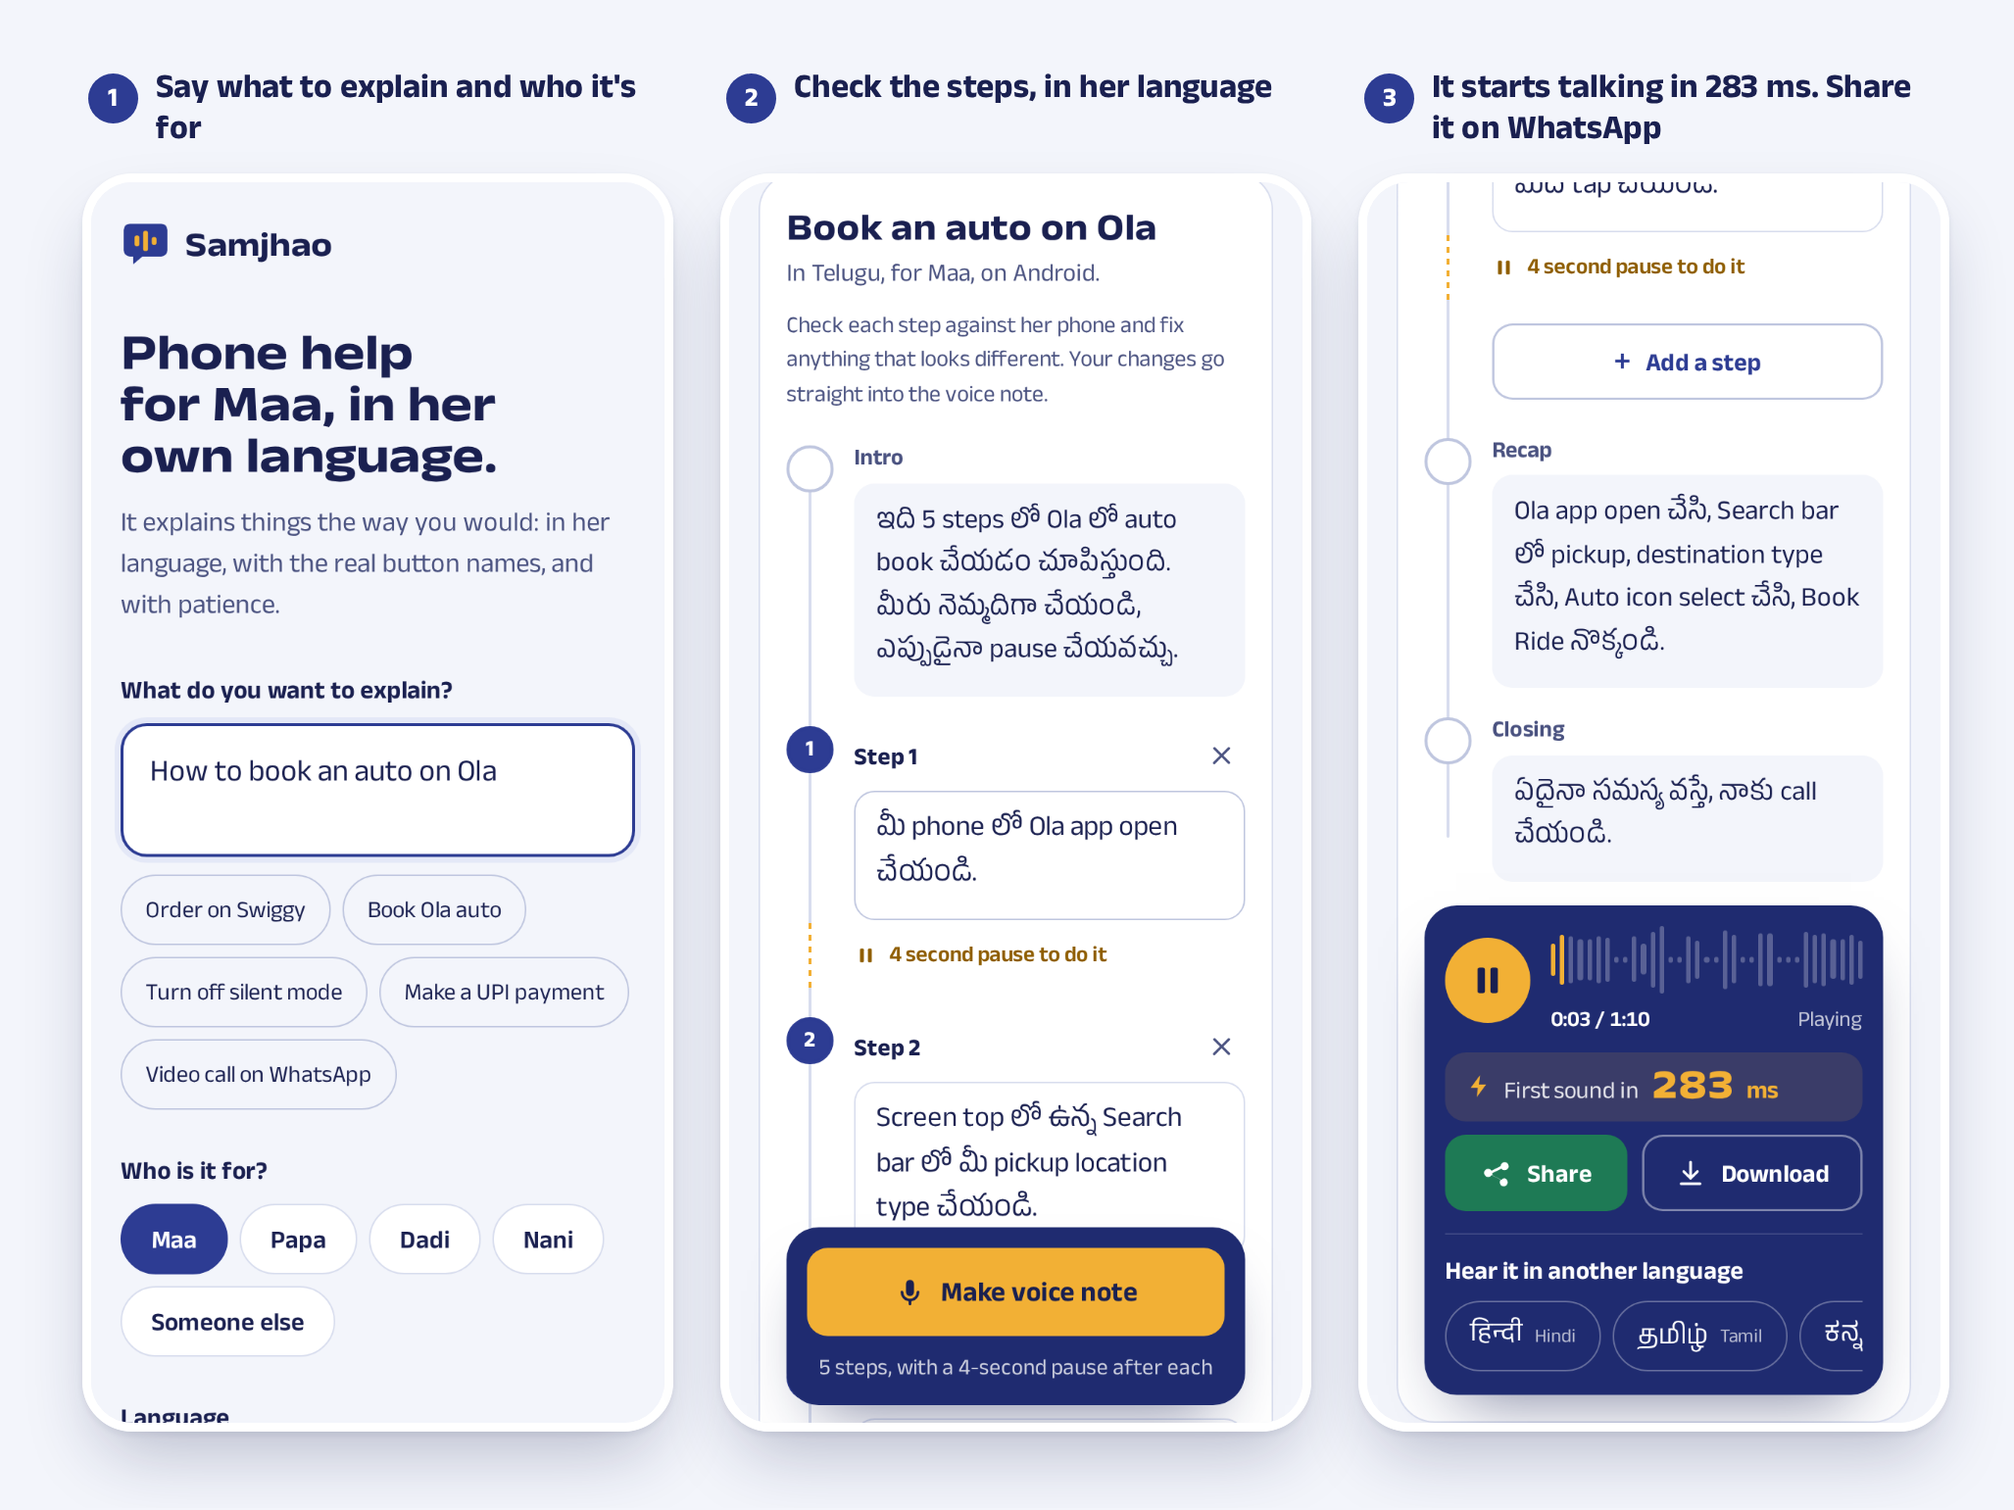
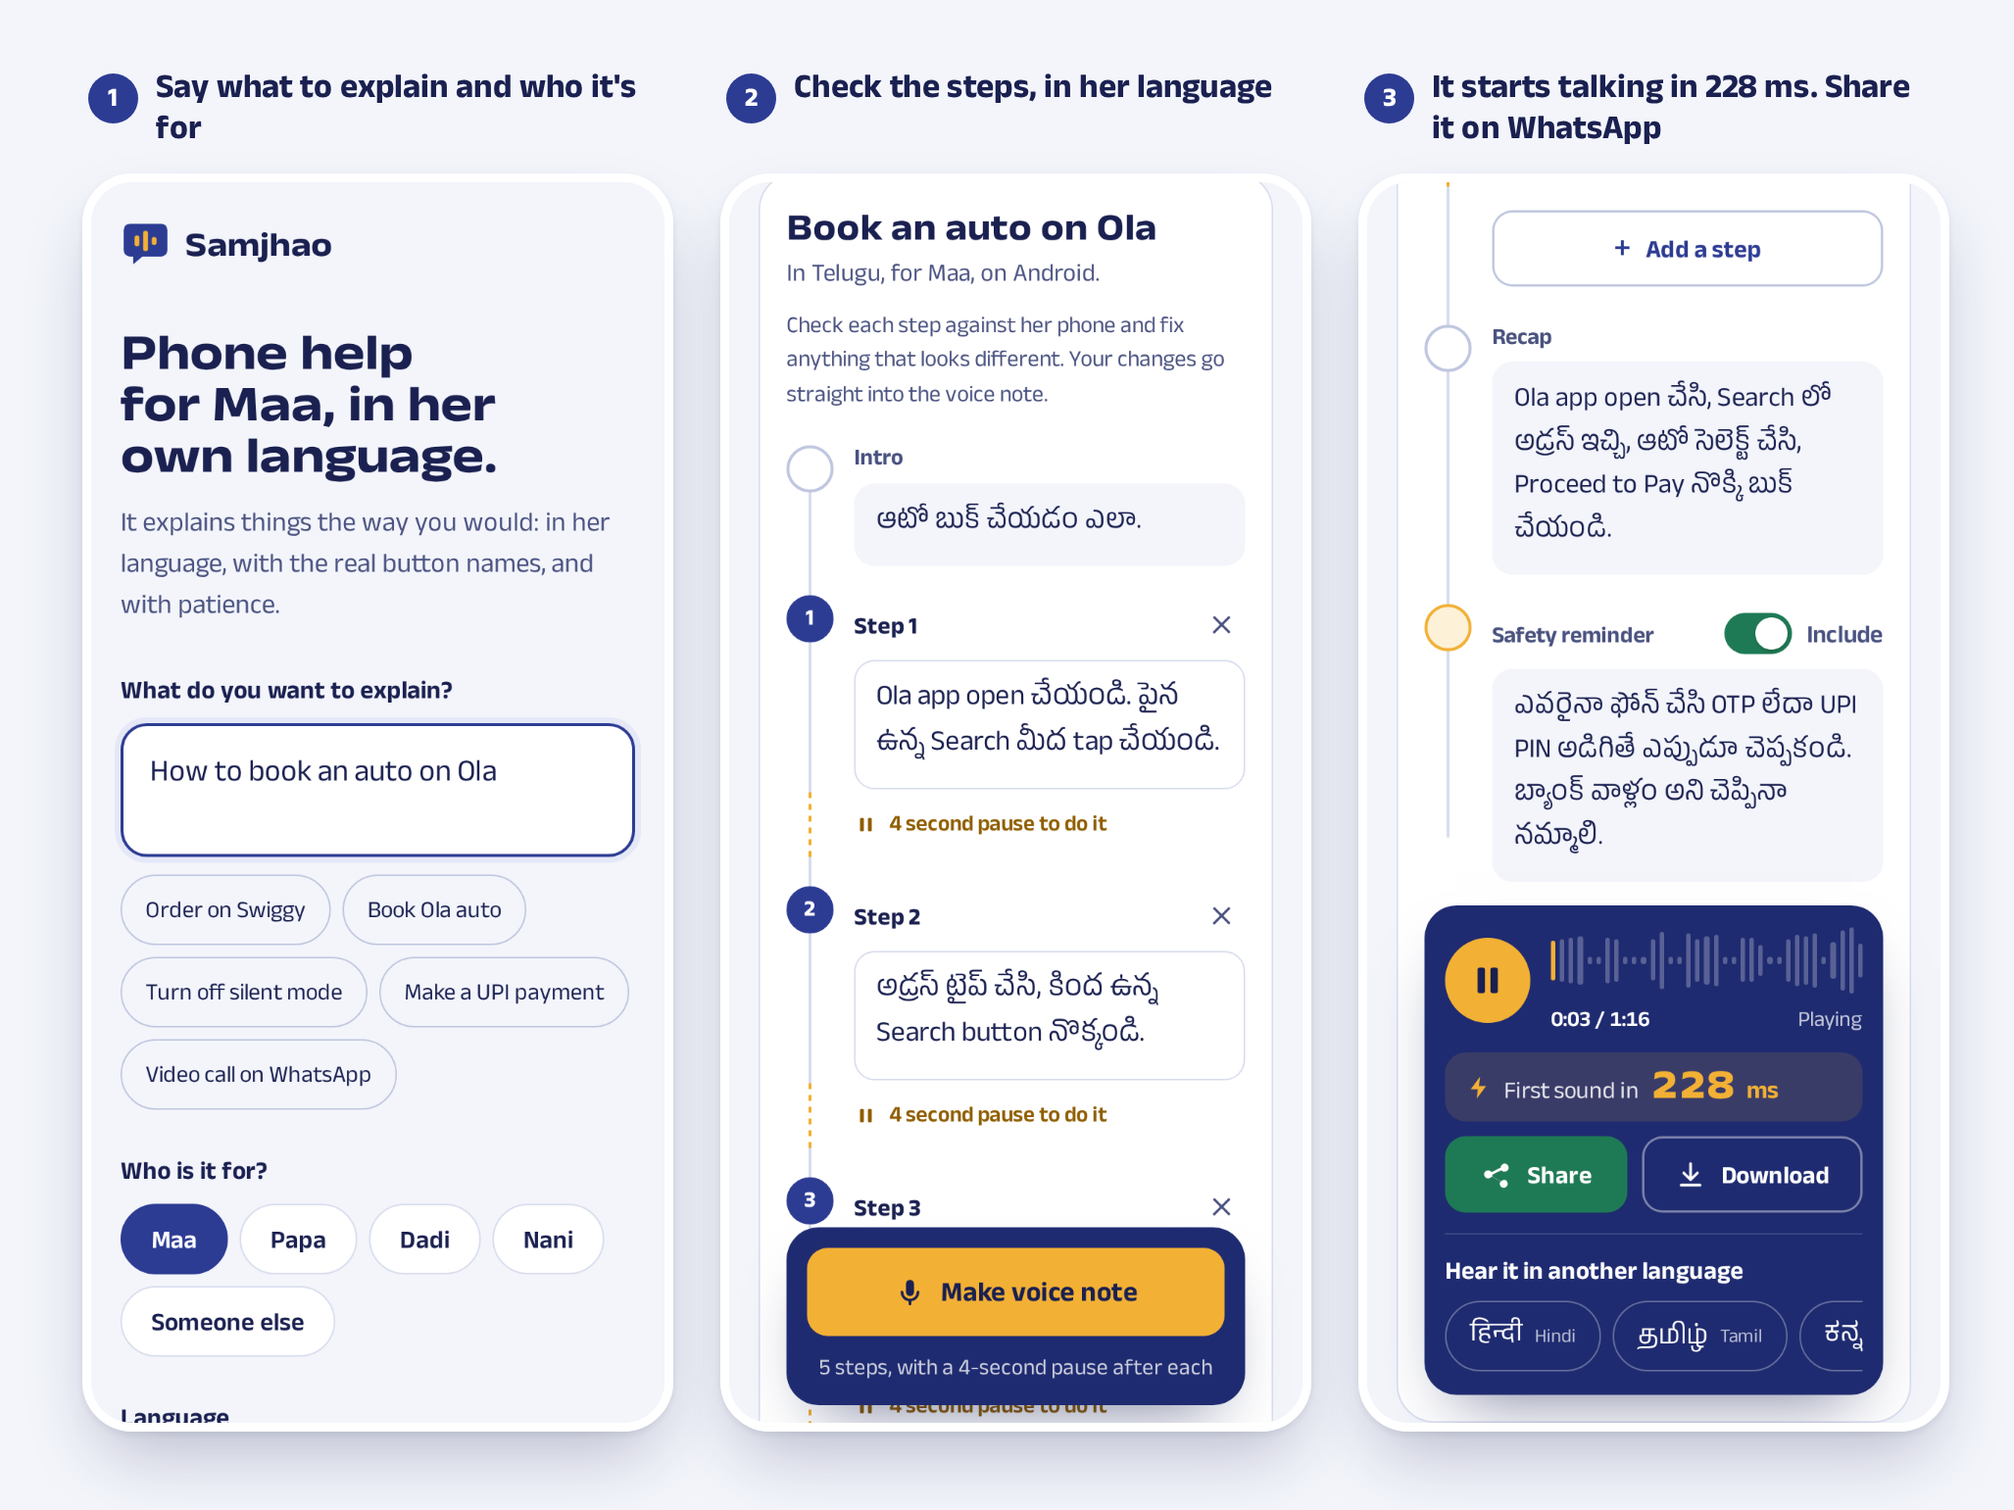
Shorter voice notes: task-only intro, no closing line, fixed safety wording
- The intro is now one line naming the task: no step count, no "take
  your time" or "you can pause" lines; the page no longer rewrites a
  step count in it.
- The closing "if you get stuck, call me" line is gone from the
  schema, prompts, audio and page, and the note ends on the last word.
- The LLM only flags money and login tasks; the scam-safety sentence
  is fixed, checked text per language (Sarvam-105B once wrote the
  Telugu one as "believe them" instead of "don't believe them").

diff --git a/static/app.js b/static/app.js
@@ -18,7 +18,7 @@
     customName: '',
     phone: 'android',
     voice: 'female',
-    script: null, // {title, intro, steps[], recap, safety, close, note}
+    script: null, // {title, intro, steps[], recap, safety, note}
     scriptLang: null, // language the editor text is written in
     scriptFor: null, // {relation, customName, phone} at writing time
     safetyOn: true,
@@ -270,7 +270,6 @@
       steps: steps.slice(0, maxSteps()),
       recap: str(s && s.recap),
       safety: s && typeof s.safety === 'string' && s.safety.trim() ? s.safety : null,
-      close: str(s && s.close),
       note: s && typeof s.note === 'string' && s.note.trim() ? s.note : null,
     };
   }
@@ -295,7 +294,7 @@
     note.hidden = !state.script.note;
     note.textContent = state.script.note || '';
 
-    const fields = { 'f-intro': 'intro', 'f-recap': 'recap', 'f-safety': 'safety', 'f-close': 'close' };
+    const fields = { 'f-intro': 'intro', 'f-recap': 'recap', 'f-safety': 'safety' };
     for (const [id, key] of Object.entries(fields)) {
       const ta = $(id);
       ta.lang = lang;
@@ -352,21 +351,10 @@
     list.querySelectorAll('.part-text').forEach(grow);
   }
 
-  function fixIntroCount(oldN, newN) {
-    const re = new RegExp(`(^|[^0-9])${oldN}(?![0-9])`);
-    const intro = $('f-intro');
-    if (re.test(intro.value)) {
-      intro.value = intro.value.replace(re, `$1${newN}`);
-      state.script.intro = intro.value;
-      grow(intro);
-    }
-  }
-
   function removeStep(i) {
     const n = state.script.steps.length;
     if (n <= 1) return;
     state.script.steps.splice(i, 1);
-    fixIntroCount(n, n - 1);
     renderSteps();
     markDirty();
     updateMakeSub();
@@ -378,7 +366,6 @@
     const n = state.script.steps.length;
     if (n >= maxSteps()) return;
     state.script.steps.push('');
-    fixIntroCount(n, n + 1);
     renderSteps();
     markDirty();
     updateMakeSub();
@@ -419,17 +406,12 @@
   function collectScript() {
     const s = state.script;
     const steps = s.steps.map((t) => t.trim()).filter(Boolean);
-    let intro = s.intro.trim();
-    if (steps.length !== s.steps.length) {
-      intro = intro.replace(new RegExp(`(^|[^0-9])${s.steps.length}(?![0-9])`), `$1${steps.length}`);
-    }
     return {
       title: s.title || '',
-      intro,
+      intro: s.intro.trim(),
       steps,
       recap: s.recap.trim(),
       safety: state.safetyOn && s.safety && s.safety.trim() ? s.safety.trim() : null,
-      close: s.close.trim(),
       note: s.note || null,
     };
   }
@@ -482,8 +464,6 @@
     script.steps.forEach((s) => { speak(s); segs.push({ talk: false, len: pauseSeconds() }); });
     speak(script.recap);
     if (script.safety) { segs.push({ talk: false, len: 1 }); speak(script.safety); }
-    segs.push({ talk: false, len: 0.8 });
-    speak(script.close);
     const total = segs.reduce((a, s) => a + s.len, 0);
     const n = Math.max(24, Math.min(64, Math.floor((wave.clientWidth || 260) / 6)));
     job.bars = [];
@@ -889,7 +869,7 @@
       updateAddress();
     });
 
-    const fields = { 'f-intro': 'intro', 'f-recap': 'recap', 'f-safety': 'safety', 'f-close': 'close' };
+    const fields = { 'f-intro': 'intro', 'f-recap': 'recap', 'f-safety': 'safety' };
     for (const [id, key] of Object.entries(fields)) {
       $(id).addEventListener('input', (e) => {
         state.script[key] = e.target.value;

diff --git a/static/index.html b/static/index.html
@@ -145,12 +145,6 @@
             </div>
             <textarea id="f-safety" class="part-text" rows="1"></textarea>
           </div>
-
-          <div class="part part-soft" data-part="close">
-            <span class="node" aria-hidden="true"></span>
-            <label class="part-label" for="f-close">Closing</label>
-            <textarea id="f-close" class="part-text" rows="1"></textarea>
-          </div>
         </div>
 
         <div class="dock" id="dock">

diff --git a/app/llm.py b/app/llm.py
@@ -36,10 +36,9 @@ SCRIPT_SCHEMA = {
         "steps": {"type": "array", "items": {"type": "string"}},
         "recap": {"type": "string"},
         "safety": {"type": ["string", "null"]},
-        "close": {"type": "string"},
         "note": {"type": ["string", "null"]},
     },
-    "required": ["title", "intro", "steps", "recap", "safety", "close", "note"],
+    "required": ["title", "intro", "steps", "recap", "safety", "note"],
     "additionalProperties": False,
 }
 
@@ -131,11 +130,10 @@ CONTENT
 
 PARTS (JSON fields)
 - title: 2 to 5 English words in Latin script naming the task, like "Order food on Swiggy".
-- intro: in one short sentence say what this voice note shows, say how many steps there are (as a digit, matching the steps list), then tell them to take their time and that they can pause this voice note anytime.
+- intro: one short sentence that only names the task, like a title said aloud ("How to put a story on Facebook", in the target language). Nothing else: no step count, no "take your time", no "you can pause".
 - steps: the steps, in order.
 - recap: one breath that runs through all the steps quickly.
-- safety: only if the task itself involves paying money, UPI, banking, OTPs, passwords or logging in. Then one or two sentences that say all of this: never tell your OTP or UPI PIN to anyone who calls you, even if they say they are from the bank. For everything else (calls, video calls, messages, photos, settings, sound) it must be null.
-- close: one short line: if you get stuck, just call me.
+- safety: the word "yes" only if the task itself involves paying money, UPI, banking, OTPs, passwords or logging in (a standard warning is added for you). For everything else (calls, video calls, messages, photos, settings, sound) it must be null.
 - note: null unless the task needs more than 6 steps.
 
 Reply with one JSON object only."""
@@ -152,12 +150,12 @@ FAITHFULNESS
 - The user may have edited the source script. Keep every step, in the same order, with the same meaning and details. Same number of steps; never add, drop, merge or split steps.
 - Keep app names and button labels exactly as they are in the source.
 - If the source calls the listener by name or relation (Maa, Papa, Amma garu and so on), leave that out.
-- The intro must say the number of steps as the digit {steps}, and tell them to take their time and that they can pause this voice note anytime.
-- safety: translate it if the source has one, keep it null if the source's is null.
+- intro: one short sentence that only names the task, like a title said aloud. Nothing else: no step count, no "take your time", no "you can pause".
+- safety: "yes" if the source has one, null if the source's is null (a standard warning is added for you).
 - title and note: copy them unchanged.
 - Never put "Step 1", numbers or bullets before a step.
 
-Reply with one JSON object with the same fields as the source: title, intro, steps, recap, safety, close, note."""
+Reply with one JSON object with the same fields as the source: title, intro, steps, recap, safety, note."""
 
 
 # --- model call --------------------------------------------------------------------------------
@@ -261,21 +259,11 @@ def _strip_address(text: str, words: list[str]) -> str:
 
 def _without_address(script: dict, language: str, custom_name: str | None) -> dict:
     words = _address_words(language, custom_name)
-    for key in ("intro", "recap", "safety", "close"):
+    for key in ("intro", "recap", "safety"):
         if script.get(key):
             script[key] = _strip_address(script[key], words)
     script["steps"] = [s for s in (_strip_address(s, words) for s in script["steps"]) if s]
-    script["intro"] = _fix_step_count(script["intro"], len(script["steps"]))
     return script
-
-
-def _fix_step_count(intro: str, steps: int) -> str:
-    """The LLM sometimes miscounts its own steps; correct the one number in the intro."""
-    numbers = list(re.finditer(r"(?<![\d₹])\d{1,2}(?!\d)", intro))
-    if len(numbers) == 1 and numbers[0].group() != str(steps):
-        m = numbers[0]
-        return intro[:m.start()] + str(steps) + intro[m.end():]
-    return intro
 
 
 def _title_from_task(task: str) -> str:
@@ -324,14 +312,11 @@ def _parse(raw: str, language: str) -> dict:
         "steps": steps[: config.MAX_STEPS],
         "recap": text_field("recap"),
         "safety": text_field("safety", optional=True),
-        "close": text_field("close"),
         "note": text_field("note", optional=True),
     }
-    script["intro"] = _fix_step_count(script["intro"], len(script["steps"]))
-
     writing = config.LANGUAGES[language]["script"]
     if writing != "Latin":
-        spoken = " ".join([script["intro"], *script["steps"], script["recap"], script["close"]])
+        spoken = " ".join([script["intro"], *script["steps"], script["recap"]])
         if _script_share(spoken, writing) < 0.25:
             raise ValueError(f"reply is not written in {writing} script")
     return script
@@ -363,16 +348,18 @@ async def write_script(task: str, language: str, relation: str, custom_name: str
     script = await _generate(WRITE_MODEL, system, user, language, WRITE_TEMPERATURE)
     if not script["title"].isascii():
         script["title"] = _title_from_task(task)
+    script["safety"] = config.SAFETY_LINE[language] if script["safety"] else None
     return _without_address(script, language, custom_name)
 
 
 async def translate_script(script: dict, language: str, relation: str, custom_name: str | None, phone: str, voice: str) -> dict:
     """Rewrite an existing (possibly user-edited) script in `language`, keeping its steps."""
-    source = {k: script.get(k) for k in ("title", "intro", "steps", "recap", "safety", "close", "note")}
+    source = {k: script.get(k) for k in ("title", "intro", "steps", "recap", "safety", "note")}
     system = _translate_system(language, relation, custom_name, phone, voice, len(source["steps"] or []))
     user = "Source script:\n" + json.dumps(source, ensure_ascii=False, indent=2)
     result = await _generate(TRANSLATE_MODEL, system, user, language, TRANSLATE_TEMPERATURE,
                              steps_expected=len(source["steps"] or []))
     result["title"] = source["title"] or result["title"]
     result["note"] = source["note"]
+    result["safety"] = config.SAFETY_LINE[language] if source["safety"] else None
     return _without_address(result, language, custom_name)

diff --git a/app/config.py b/app/config.py
@@ -61,6 +61,20 @@ LANGUAGES = {
 
 PHONES = {"android": "Android", "iphone": "iPhone"}
 
+# Scam-safety line for tasks involving money or login. Fixed text, not LLM-written: a dropped negation here
+# ("believe them" instead of "don't believe them") would be dangerous.
+SAFETY_LINE = {
+    "hi-IN": "कोई भी call करके OTP या UPI PIN माँगे, तो कभी मत बताइए, चाहे वो कहे कि bank से बोल रहा है।",
+    "te-IN": "ఎవరైనా call చేసి OTP లేదా UPI PIN అడిగితే, ఎప్పుడూ చెప్పకండి. Bank నుంచి అని చెప్పినా నమ్మకండి.",
+    "ta-IN": "யாராவது call பண்ணி OTP அல்லது UPI PIN கேட்டா, ஒருபோதும் சொல்லாதீங்க. Bank-ல இருந்து பேசறோம்னு சொன்னாலும் நம்பாதீங்க.",
+    "kn-IN": "ಯಾರಾದರೂ call ಮಾಡಿ OTP ಅಥವಾ UPI PIN ಕೇಳಿದರೆ, ಯಾವತ್ತೂ ಹೇಳಬೇಡಿ. Bank ಇಂದ ಮಾತಾಡ್ತಿದ್ದೀವಿ ಅಂದರೂ ನಂಬಬೇಡಿ.",
+    "mr-IN": "कोणी call करून OTP किंवा UPI PIN विचारला, तर कधीच सांगू नका. Bank मधून बोलतोय असं सांगितलं तरी विश्वास ठेवू नका.",
+    "bn-IN": "কেউ call করে OTP বা UPI PIN চাইলে, কখনও বলবেন না। Bank থেকে বলছি বললেও বিশ্বাস করবেন না।",
+    "gu-IN": "કોઈ call કરીને OTP કે UPI PIN માંગે, તો ક્યારેય કહેશો નહીં. Bank માંથી બોલું છું એમ કહે તો પણ વિશ્વાસ કરશો નહીં.",
+    "pa-IN": "ਜੇ ਕੋਈ call ਕਰਕੇ OTP ਜਾਂ UPI PIN ਮੰਗੇ, ਤਾਂ ਕਦੇ ਨਾ ਦੱਸੋ। ਭਾਵੇਂ ਉਹ ਕਹੇ ਕਿ bank ਤੋਂ ਬੋਲ ਰਿਹਾ ਹਾਂ, ਯਕੀਨ ਨਾ ਕਰੋ।",
+    "en-IN": "Never tell your OTP or UPI PIN to anyone who calls you, even if they say they are from the bank.",
+}
+
 # Bulbul v4 Flash speaker IDs per language, picked from the live speaker list.
 # Tamil has no female persona on v4 Flash yet.
 VOICES: dict[str, dict[str, str]] = {

diff --git a/app/audio.py b/app/audio.py
@@ -101,7 +101,9 @@ def build_parts(script: dict, language: str) -> list[Part]:
         parts.append(Part("safety", _sentence(script["safety"], language), config.TTS_PACE, config.PAUSE_AFTER_SAFETY))
     if script.get("close"):
         parts.append(Part("close", _sentence(script["close"], language), config.TTS_PACE, 0))
-    return [p for p in parts if p.text]
+    parts = [p for p in parts if p.text]
+    parts[-1].pause = 0  # end on the last word, not on silence
+    return parts
 
 
 def create_job(job_id: str, script: dict, language: str, voice: str) -> Job:

diff --git a/README.md b/README.md
@@ -25,7 +25,7 @@ Long step-by-step texts are hard for many parents to follow, but they already li
 
 ## How it works
 
-1. **Write.** Sarvam-105B writes an intro, 1 to 6 steps, a recap, an optional safety line and a warm close. It writes in the language's own script, keeps button names exactly as they appear on screen, uses the polite form of "you" without pet names, and matches the narrator's gender in languages with gendered verbs (सिखाती हूँ for a female voice, सिखाता हूँ for a male one).
+1. **Write.** Sarvam-105B writes a one-line intro naming the task, 1 to 6 steps, a one-breath recap, and a safety line for money or login tasks. It writes in the language's own script, keeps button names exactly as they appear on screen, uses the polite form of "you" without pet names or filler, and gets gendered verb forms right in languages that have them. The safety line itself is fixed, hand-checked wording in each language rather than LLM output, so the warning can't come out garbled.
 2. **Review.** The steps appear as editable cards. An LLM doesn't know today's exact app screens, so you fix anything that's off before it becomes audio.
 3. **Speak.** Every part goes to Bulbul v4 Flash over HTTP streaming. The intro goes first; the other parts are generated in parallel as soon as it is flowing.
 4. **Play while it's still being made.** Bulbul streams plain MP3 frames (24 kHz, mono, 128 kbps CBR, no headers). Samjhao encodes its pauses (4 seconds after each step) in exactly the same format, so all parts join byte for byte into one stream. The browser plays the intro while later steps are still being generated, and the same bytes become the shareable MP3 (remuxed with ffmpeg to add a duration header, no re-encoding).
